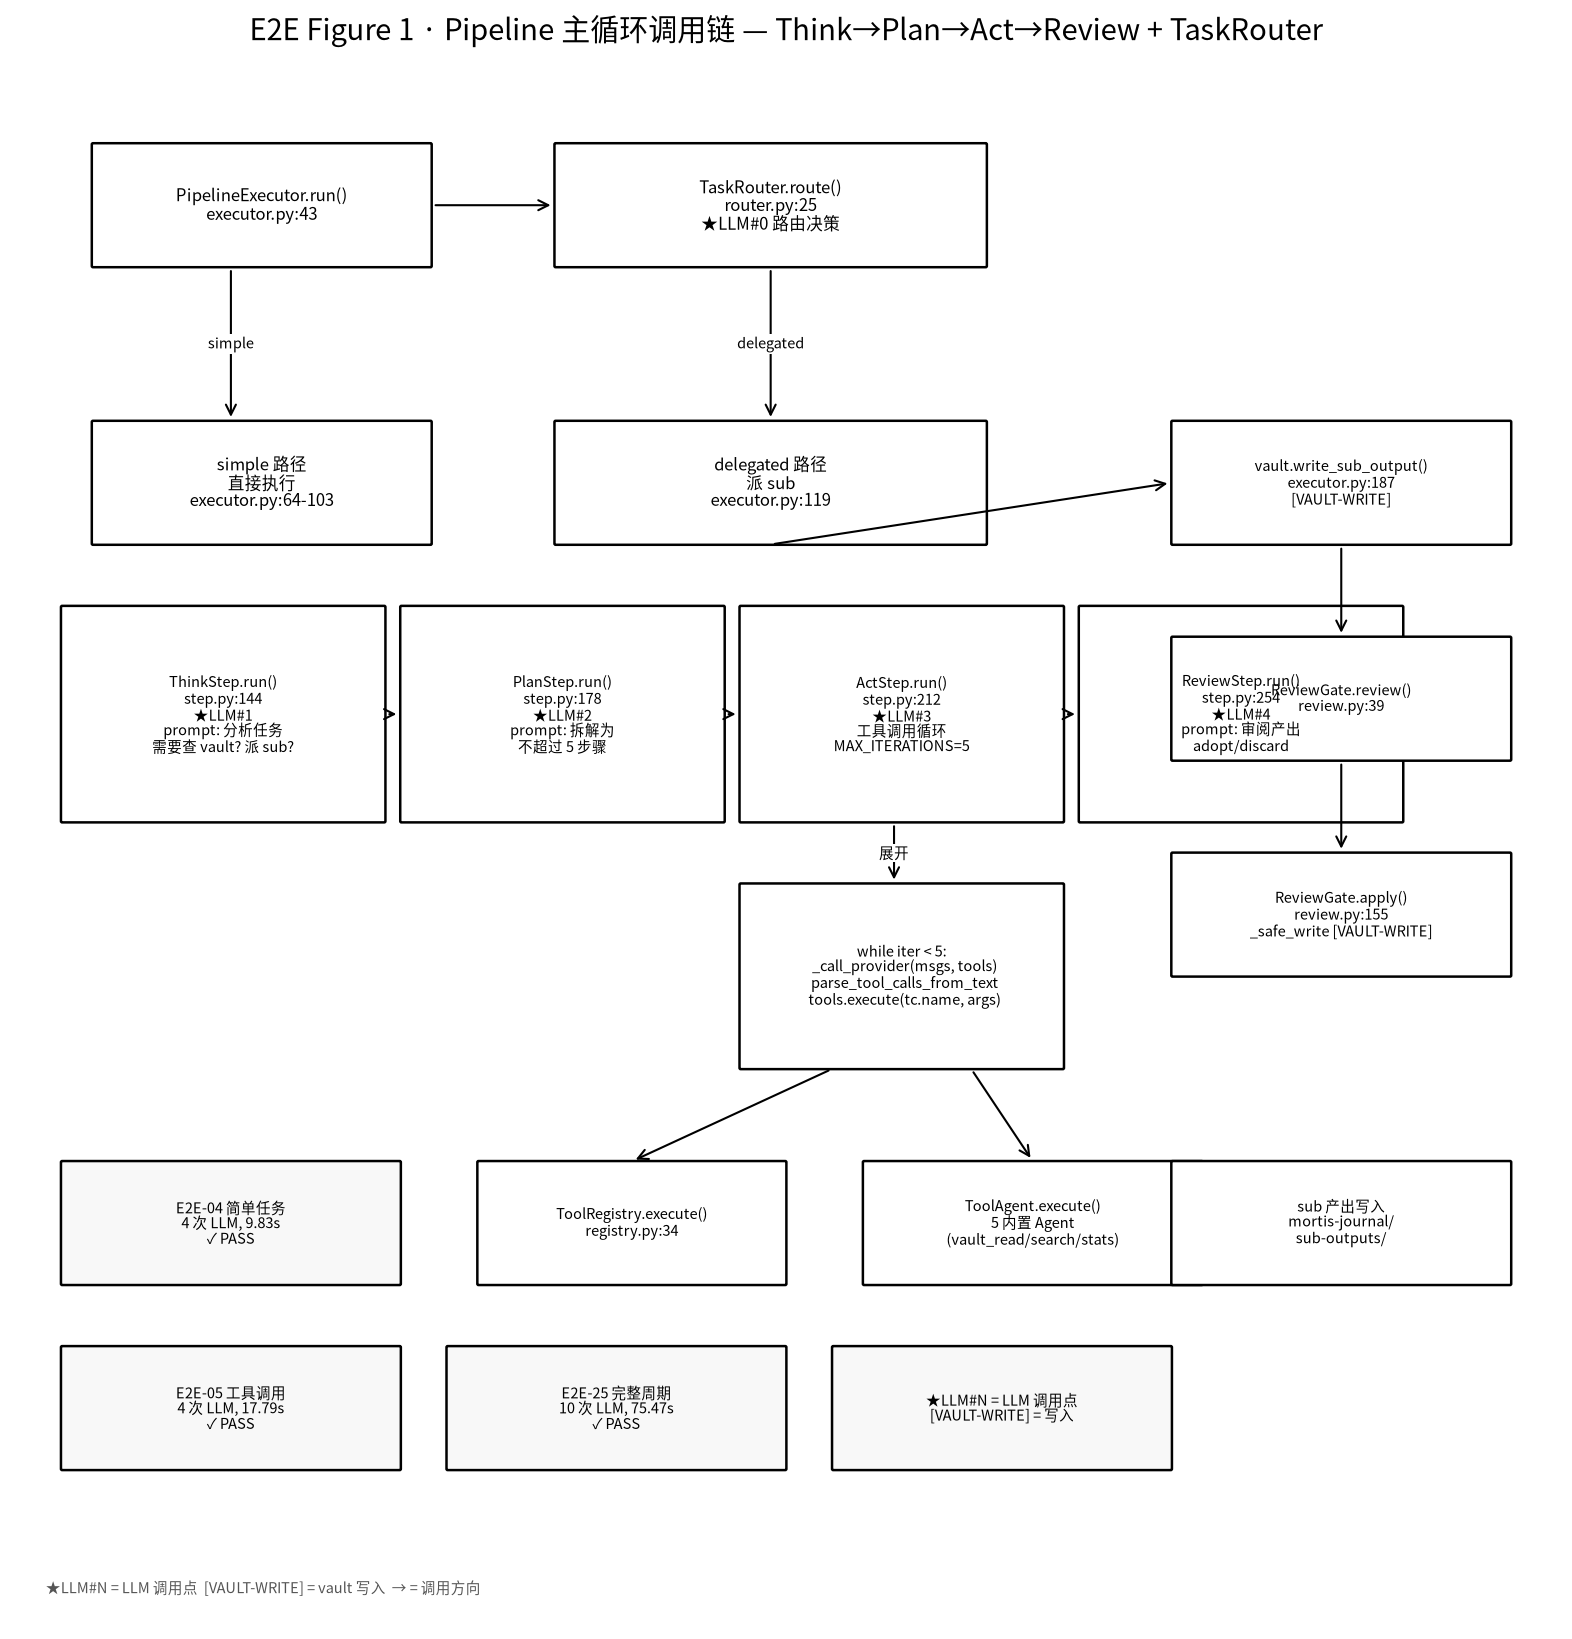
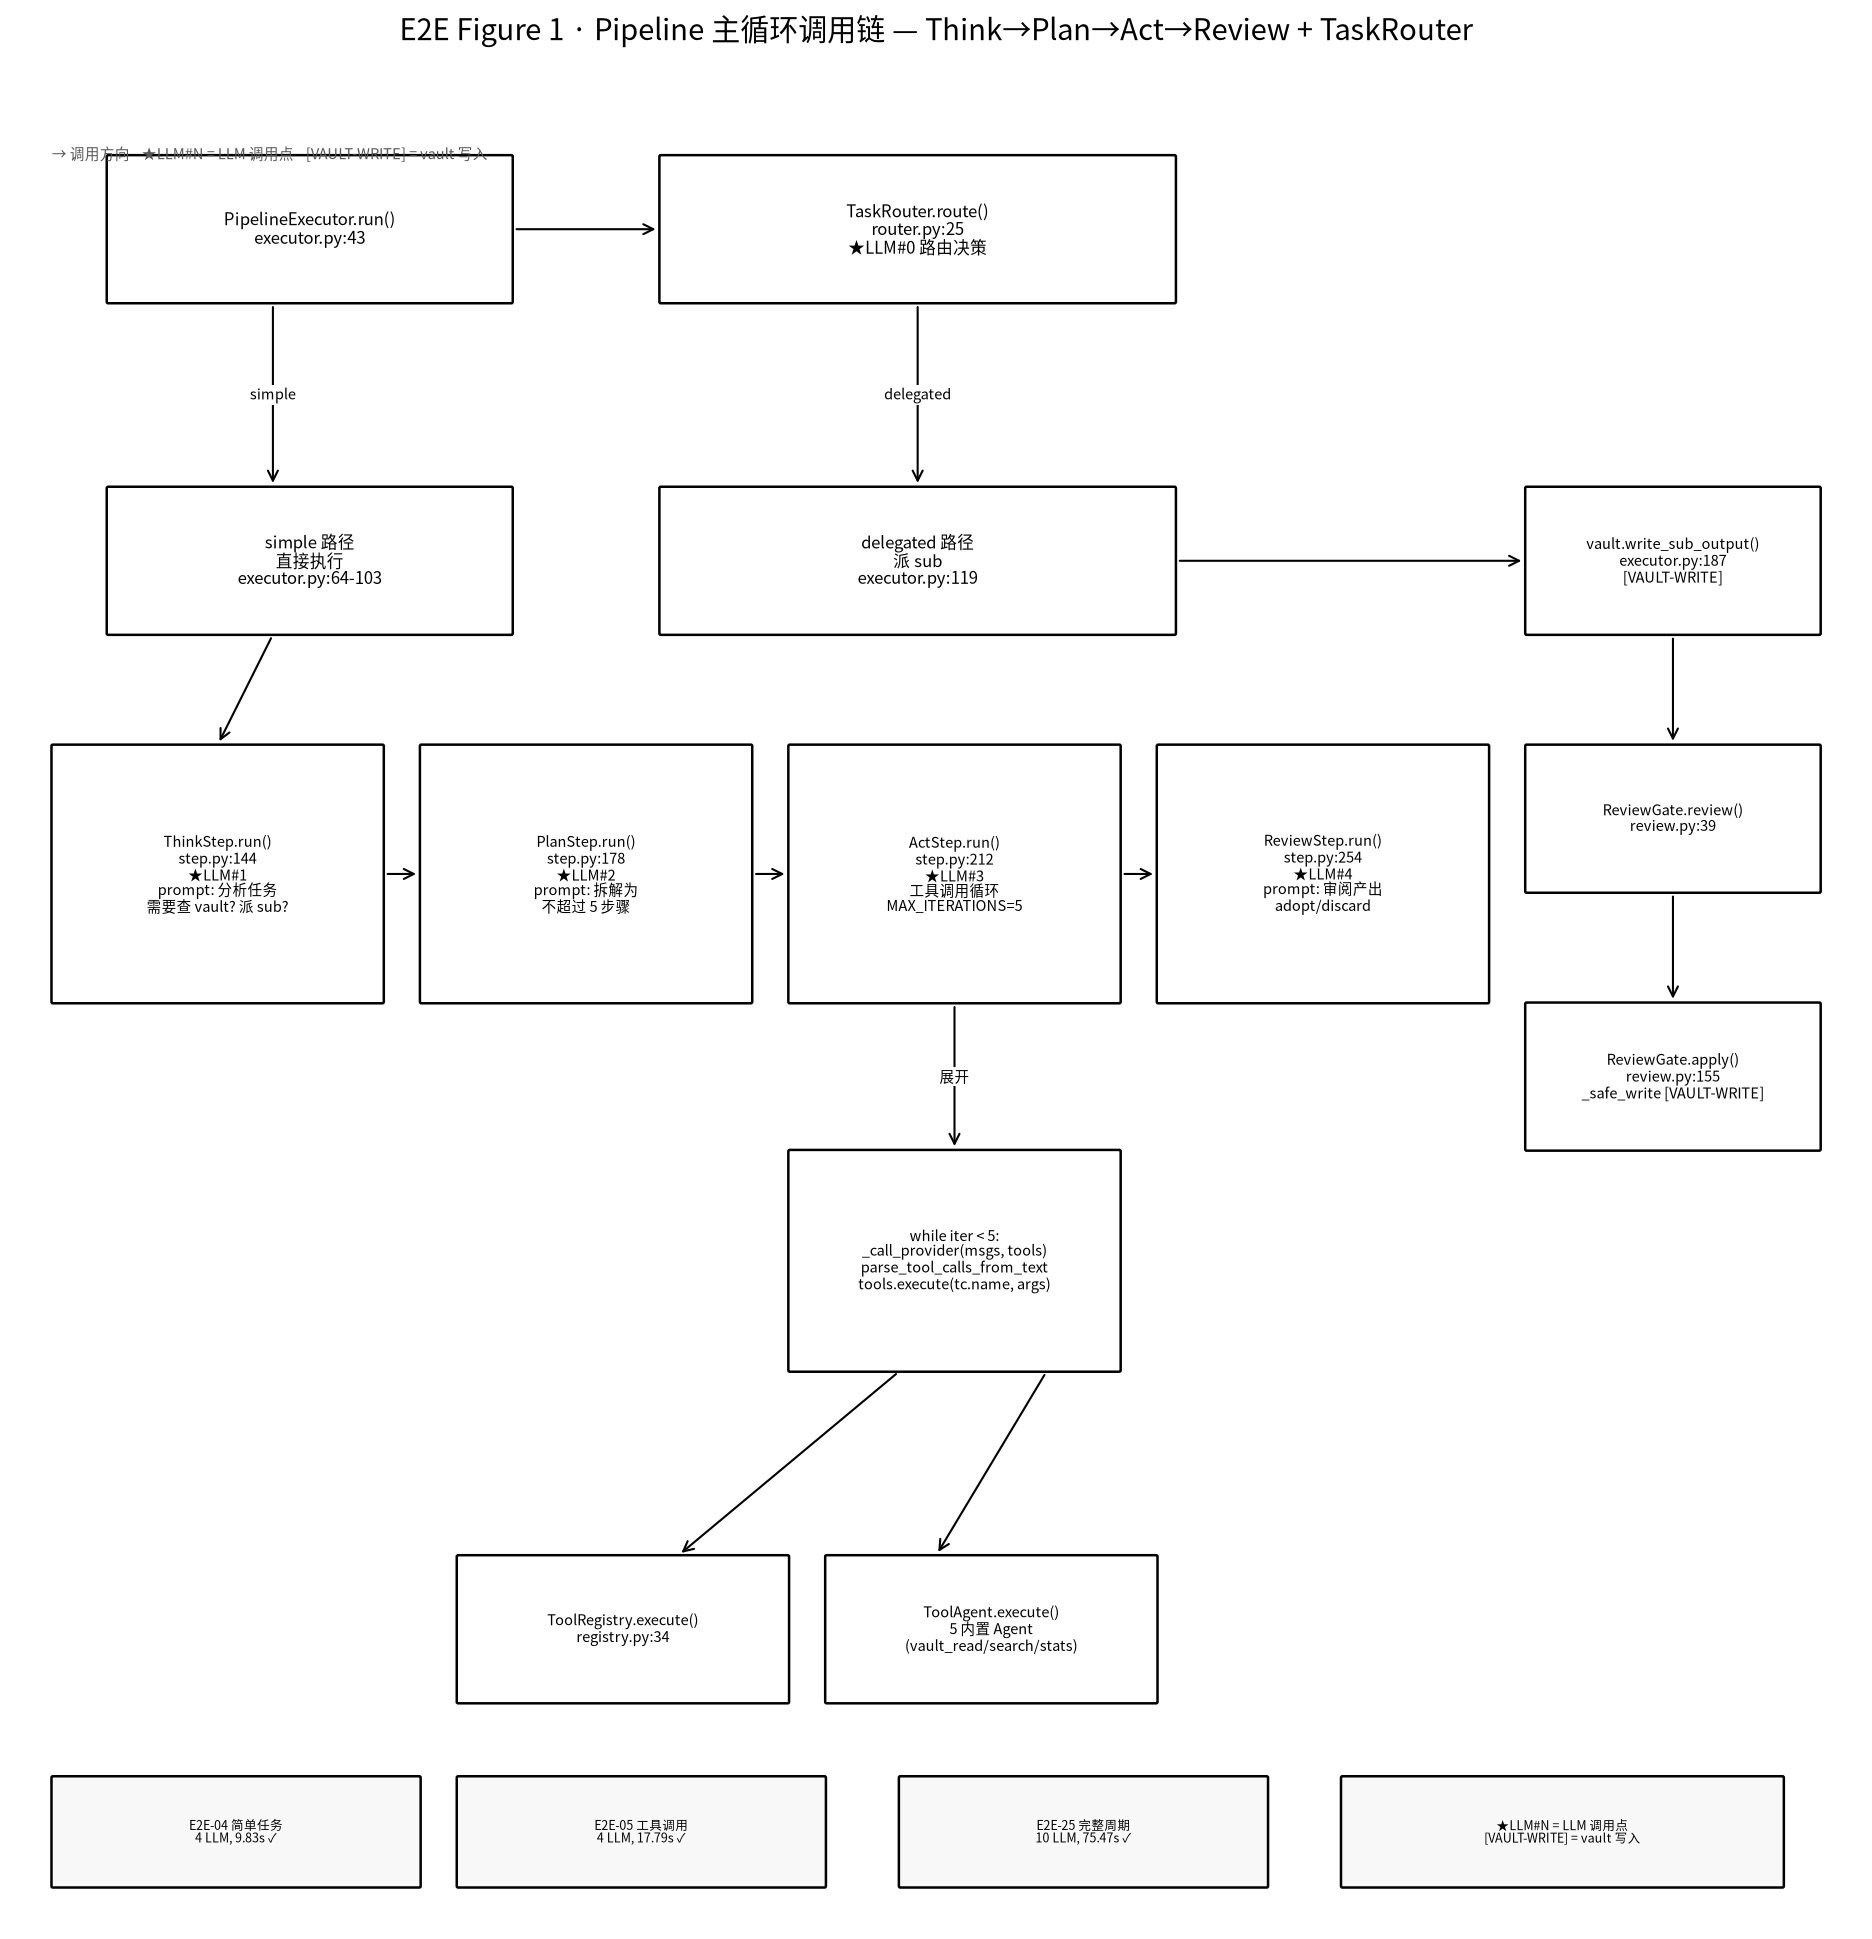
docs(audit-v3): 优化 e2e-01 pipeline 调用链图，消除框遮挡
重构布局修复遮挡问题：
- 画布扩大 16×11 → 18×13，增加呼吸空间
- 4 步 Step 宽度 21→18，间距 2，消除 ReviewStep 与右侧委派分支的重叠
- 委派分支右移 x=75→82，与 ReviewStep 列留 2 单位间隙
- 补上缺失的 simple 路径 → ThinkStep 箭头
- ActStep 内部展开 + 工具执行下移，垂直层次更清晰
- E2E 验证标记合并到底部一行 (y=2)，减少视觉杂乱

diff --git a/docs/mortis-audit-v3/render_images.py b/docs/mortis-audit-v3/render_images.py
@@ -879,60 +879,62 @@ def render_10_timeline():
 # E2E Figure 1: Pipeline 主循环调用链
 # ============================================================
 def render_e2e_01_pipeline_chain():
-    fig, ax = _setup_ax((16, 11))
+    fig, ax = _setup_ax((18, 13))
     ax.set_title("E2E Figure 1 · Pipeline 主循环调用链 — Think→Plan→Act→Review + TaskRouter",
                  fontsize=14, weight="bold", pad=20)
 
-    # 入口
+    # ---- 入口行 (y=90) ----
     _box(ax, 5, 88, 22, 8, "PipelineExecutor.run()\nexecutor.py:43", fontsize=8, weight="bold")
     _box(ax, 35, 88, 28, 8, "TaskRouter.route()\nrouter.py:25\n★LLM#0 路由决策", fontsize=8)
     _arrow(ax, 27, 92, 35, 92)
 
-    # 路由分叉
+    # ---- 路由分叉 (y=72) ----
     _box(ax, 5, 70, 22, 8, "simple 路径\n直接执行\nexecutor.py:64-103", fontsize=8)
     _box(ax, 35, 70, 28, 8, "delegated 路径\n派 sub\nexecutor.py:119", fontsize=8)
     _arrow(ax, 14, 88, 14, 78, "simple")
     _arrow(ax, 49, 88, 49, 78, "delegated")
 
-    # 4 步 Step
+    # ---- 委派分支 (右侧, x=82) ----
+    _box(ax, 82, 70, 16, 8, "vault.write_sub_output()\nexecutor.py:187\n[VAULT-WRITE]", fontsize=7)
+    _box(ax, 82, 56, 16, 8, "ReviewGate.review()\nreview.py:39", fontsize=7)
+    _box(ax, 82, 42, 16, 8, "ReviewGate.apply()\nreview.py:155\n_safe_write [VAULT-WRITE]", fontsize=7)
+    _arrow(ax, 63, 74, 82, 74)
+    _arrow(ax, 90, 70, 90, 64)
+    _arrow(ax, 90, 56, 90, 50)
+
+    # ---- 4 步 Step (y=50, width=18, gap=2) ----
     steps = [
-        ("ThinkStep.run()\nstep.py:144\n★LLM#1\nprompt: 分析任务\n需要查 vault? 派 sub?", 3, 52),
-        ("PlanStep.run()\nstep.py:178\n★LLM#2\nprompt: 拆解为\n不超过 5 步骤", 25, 52),
-        ("ActStep.run()\nstep.py:212\n★LLM#3\n工具调用循环\nMAX_ITERATIONS=5", 47, 52),
-        ("ReviewStep.run()\nstep.py:254\n★LLM#4\nprompt: 审阅产出\nadopt/discard", 69, 52),
+        ("ThinkStep.run()\nstep.py:144\n★LLM#1\nprompt: 分析任务\n需要查 vault? 派 sub?", 2, 50),
+        ("PlanStep.run()\nstep.py:178\n★LLM#2\nprompt: 拆解为\n不超过 5 步骤", 22, 50),
+        ("ActStep.run()\nstep.py:212\n★LLM#3\n工具调用循环\nMAX_ITERATIONS=5", 42, 50),
+        ("ReviewStep.run()\nstep.py:254\n★LLM#4\nprompt: 审阅产出\nadopt/discard", 62, 50),
     ]
     for text, x, y in steps:
-        _box(ax, x, y, 21, 14, text, fontsize=7)
+        _box(ax, x, y, 18, 14, text, fontsize=7)
     for i in range(3):
-        _arrow(ax, 24 + i * 22, 59, 25 + i * 22, 59)
+        _arrow(ax, 20 + i * 20, 57, 22 + i * 20, 57)
 
-    # ActStep 内部
-    _box(ax, 47, 36, 21, 12, "while iter < 5:\n  _call_provider(msgs, tools)\n  parse_tool_calls_from_text\n  tools.execute(tc.name, args)", fontsize=7)
-    _arrow(ax, 57, 52, 57, 48, "展开")
+    # simple 路径 → ThinkStep (补上缺失的箭头)
+    _arrow(ax, 14, 70, 11, 64)
 
-    # 工具执行
-    _box(ax, 30, 22, 20, 8, "ToolRegistry.execute()\nregistry.py:34", fontsize=7)
-    _box(ax, 55, 22, 22, 8, "ToolAgent.execute()\n5 内置 Agent\n(vault_read/search/stats)", fontsize=7)
-    _arrow(ax, 53, 36, 40, 30)
-    _arrow(ax, 62, 36, 66, 30)
+    # ---- ActStep 内部展开 (y=30) ----
+    _box(ax, 42, 30, 18, 12, "while iter < 5:\n_call_provider(msgs, tools)\nparse_tool_calls_from_text\ntools.execute(tc.name, args)", fontsize=7)
+    _arrow(ax, 51, 50, 51, 42, "展开")
 
-    # 委派分支
-    _box(ax, 75, 70, 22, 8, "vault.write_sub_output()\nexecutor.py:187\n[VAULT-WRITE]", fontsize=7)
-    _box(ax, 75, 56, 22, 8, "ReviewGate.review()\nreview.py:39", fontsize=7)
-    _box(ax, 75, 42, 22, 8, "ReviewGate.apply()\nreview.py:155\n_safe_write [VAULT-WRITE]", fontsize=7)
-    _arrow(ax, 49, 70, 75, 74)
-    _arrow(ax, 86, 70, 86, 64)
-    _arrow(ax, 86, 56, 86, 50)
+    # ---- 工具执行 (y=12) ----
+    _box(ax, 24, 12, 18, 8, "ToolRegistry.execute()\nregistry.py:34", fontsize=7)
+    _box(ax, 44, 12, 18, 8, "ToolAgent.execute()\n5 内置 Agent\n(vault_read/search/stats)", fontsize=7)
+    _arrow(ax, 48, 30, 36, 20)
+    _arrow(ax, 56, 30, 50, 20)
 
-    # E2E 验证标记
-    _box(ax, 3, 22, 22, 8, "E2E-04 简单任务\n4 次 LLM, 9.83s\n✓ PASS", fontsize=7, fc="#F8F8F8")
-    _box(ax, 3, 10, 22, 8, "E2E-05 工具调用\n4 次 LLM, 17.79s\n✓ PASS", fontsize=7, fc="#F8F8F8")
-    _box(ax, 28, 10, 22, 8, "E2E-25 完整周期\n10 次 LLM, 75.47s\n✓ PASS", fontsize=7, fc="#F8F8F8")
-    _box(ax, 53, 10, 22, 8, "★LLM#N = LLM 调用点\n[VAULT-WRITE] = 写入", fontsize=7, fc="#F8F8F8")
-    _box(ax, 75, 22, 22, 8, "sub 产出写入\nmortis-journal/\nsub-outputs/", fontsize=7)
+    # ---- E2E 验证标记 (底部, y=2) ----
+    _box(ax, 2, 2, 20, 6, "E2E-04 简单任务\n4 LLM, 9.83s ✓", fontsize=6, fc="#F8F8F8")
+    _box(ax, 24, 2, 20, 6, "E2E-05 工具调用\n4 LLM, 17.79s ✓", fontsize=6, fc="#F8F8F8")
+    _box(ax, 48, 2, 20, 6, "E2E-25 完整周期\n10 LLM, 75.47s ✓", fontsize=6, fc="#F8F8F8")
+    _box(ax, 72, 2, 24, 6, "★LLM#N = LLM 调用点\n[VAULT-WRITE] = vault 写入", fontsize=6, fc="#F8F8F8")
 
-    ax.text(2, 2, "★LLM#N = LLM 调用点  [VAULT-WRITE] = vault 写入  → = 调用方向",
-            fontsize=7, color="#555555")
+    ax.text(2, 96.5, "→ 调用方向    ★LLM#N = LLM 调用点    [VAULT-WRITE] = vault 写入",
+            fontsize=7, color="#555555", va="top")
 
     plt.tight_layout()
     plt.savefig(os.path.join(OUT_DIR, "e2e-01-pipeline-chain.png"),